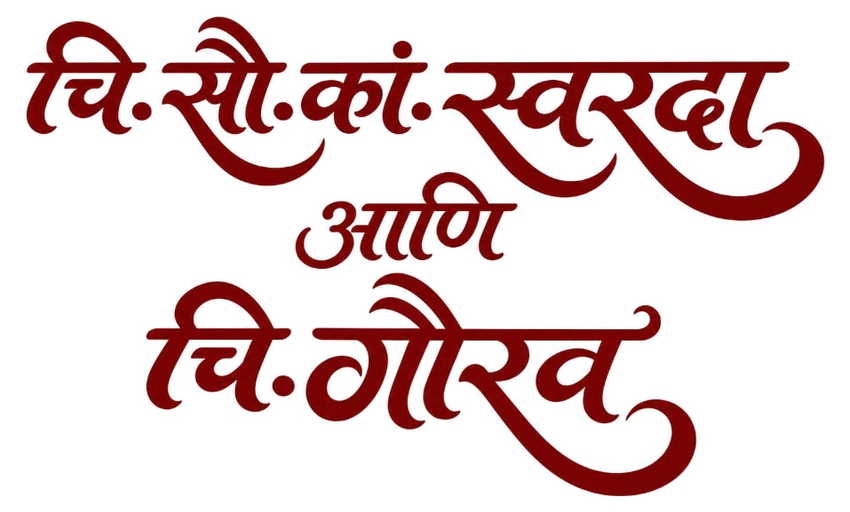
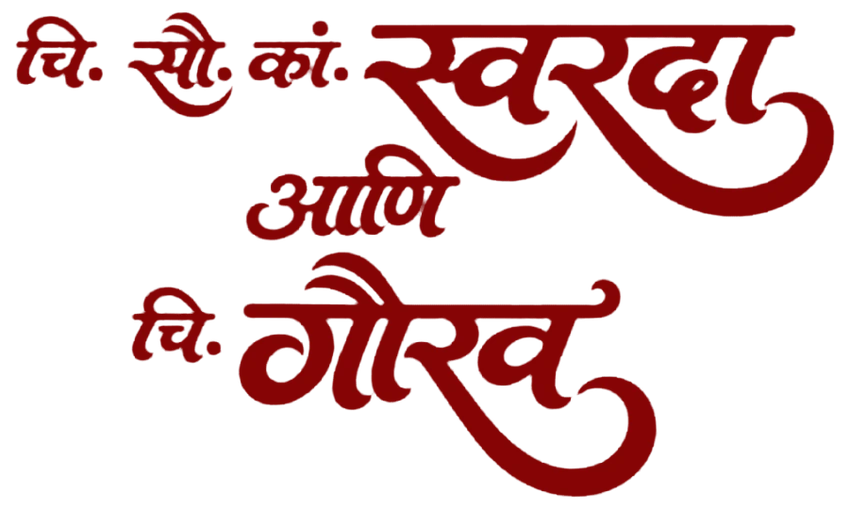
small updates

Changed region(s): [[0.0, 0.0295, 0.9788, 1.0], [0.8259, 0.4126, 0.9176, 0.442], [0.9176, 0.3831, 0.9482, 0.4126]]

diff --git a/css/style.css b/css/style.css
@@ -57,7 +57,7 @@ button { cursor: pointer; border: none; background: none; font-family: var(--ser
 
 .cover-names-wrap { display: flex; flex-direction: column; align-items: center; justify-content: center; margin-top: clamp(0.55rem, 1.8vh, 1.2rem); margin-bottom: clamp(0.45rem, 2.0cqw, 1.0rem); padding: 0.2rem 0; position: relative; width: 100%; }
 .cover-calligraphy-picture { display: flex; justify-content: center; align-items: center; width: 100%; }
-.cover-calligraphy-img { width: 100%; max-width: clamp(185px, 58cqw, 255px); max-height: min(21vh, 160px); height: auto; aspect-ratio: 850 / 554; object-fit: contain; display: block; margin: 0 auto; transform: none; filter: drop-shadow(0 2px 5px rgba(99, 22, 34, 0.16)); user-select: none; -webkit-user-select: none; pointer-events: none; }
+.cover-calligraphy-img { width: 100%; max-width: clamp(185px, 58cqw, 255px); max-height: min(21vh, 160px); height: auto; aspect-ratio: 850 / 525; object-fit: contain; display: block; margin: 0 auto; transform: none; filter: drop-shadow(0 2px 5px rgba(99, 22, 34, 0.16)); user-select: none; -webkit-user-select: none; pointer-events: none; }
 .sr-only { position: absolute; width: 1px; height: 1px; padding: 0; margin: -1px; overflow: hidden; clip: rect(0, 0, 0, 0); white-space: nowrap; border: 0; }
 
 .script-title-name { font-family: 'Italianno', cursive; font-size: clamp(3.4rem, 14.5cqw, 5.4rem); color: #16221E; font-weight: 400; line-height: 0.96; letter-spacing: 0.02em; margin: 0; text-align: center; text-shadow: 0 1px 2px rgba(255, 255, 255, 0.95); display: block; }
@@ -152,7 +152,7 @@ button { cursor: pointer; border: none; background: none; font-family: var(--ser
 .hero-names .names-bride { display: block; text-align: center; }
 .hero-calligraphy-wrap { width: 100%; display: flex; flex-direction: column; align-items: center; justify-content: center; margin: 0.35rem 0 0.55rem; position: relative; }
 .hero-calligraphy-picture { display: flex; justify-content: center; align-items: center; width: 100%; }
-.hero-calligraphy-img { width: 100%; max-width: clamp(190px, 60cqw, 255px); height: auto; aspect-ratio: 850 / 512; display: block; margin: 0 auto; filter: drop-shadow(0 2px 5px rgba(99, 22, 34, 0.16)); user-select: none; -webkit-user-select: none; pointer-events: none; }
+.hero-calligraphy-img { width: 100%; max-width: clamp(190px, 60cqw, 255px); height: auto; aspect-ratio: 850 / 509; display: block; margin: 0 auto; filter: drop-shadow(0 2px 5px rgba(99, 22, 34, 0.16)); user-select: none; -webkit-user-select: none; pointer-events: none; }
 
 .hero-line { max-width: 32ch; text-wrap: balance; font-style: italic; font-size: clamp(1.02rem, 4.0cqw, 1.28rem); color: #2F1E16; font-weight: 500; line-height: 1.45; margin: 0.35rem 0; text-shadow: 0 1px 1px rgba(255, 255, 255, 0.85); }
 .hero-line.devanagari { font-family: 'Noto Serif Devanagari', var(--deva); font-style: normal; font-size: clamp(1.20rem, 4.6cqw, 1.45rem); color: #381A1E; font-weight: 600; line-height: 1.7; max-width: 36ch; margin: 1rem 0; }
@@ -250,9 +250,9 @@ button { cursor: pointer; border: none; background: none; font-family: var(--ser
   .date-clean-text.devanagari { font-size: clamp(0.94rem, 3.6vw, 1.08rem) !important; letter-spacing: 0.03em !important; margin-left: 0 !important; font-weight: 700 !important; }
   .enter-ceremony-btn { bottom: clamp(1.8rem, 5.2vh, 2.6rem) !important; padding: 0.60rem 1.75rem 0.56rem !important; display: inline-flex !important; align-items: center !important; justify-content: center !important; text-align: center !important; line-height: 1 !important; font-size: clamp(0.96rem, 3.6vw, 1.08rem) !important; white-space: nowrap !important; letter-spacing: 0.02em !important; }
   .stage-landing { justify-content: center !important; padding: 0.25rem 0.8rem 1.4rem !important; }
-  .ganpati-icon { width: 60px !important; margin-bottom: 0.06rem !important; }
+  .ganpati-icon { width: clamp(92px, 25vw, 110px) !important; margin-bottom: 0.06rem !important; }
   .ganpati-title { height: 1.35em !important; font-size: clamp(0.92rem, 3.4vw, 1.05rem) !important; margin-bottom: 0.08rem !important; }
-  .lotus-divider { width: 100px !important; }
+  .lotus-divider { width: clamp(105px, 29vw, 125px) !important; }
   .shloka-box { height: auto !important; min-height: 2.5rem !important; margin: 0.08rem auto 0.15rem !important; }
   .shloka-text { height: 1.45em !important; font-size: clamp(0.82rem, 3.2vw, 0.94rem) !important; line-height: 1.5 !important; white-space: nowrap !important; }
   .couple-card { width: clamp(270px, 84vw, 360px) !important; max-width: 92% !important; max-height: clamp(330px, 53vh, 450px) !important; margin: 0.55rem auto 0 !important; transform: translateY(clamp(4px, 1.2vh, 8px)) !important; overflow: visible !important; }
@@ -260,8 +260,8 @@ button { cursor: pointer; border: none; background: none; font-family: var(--ser
   .scroll-cue-btn { bottom: 0.45rem !important; font-size: clamp(0.82rem, 3.2vw, 0.92rem) !important; white-space: nowrap !important; letter-spacing: 0.02em !important; z-index: 15 !important; text-shadow: 0 1px 3px rgba(255, 255, 255, 0.95), 0 0 10px rgba(255, 255, 255, 0.9) !important; }
   .invitation-reel-inner { padding-left: 0.65rem !important; padding-right: 0.65rem !important; }
   .crest-shree { font-size: clamp(1.22rem, 4.8vw, 1.45rem) !important; font-weight: 800 !important; letter-spacing: 0 !important; margin: 0.2rem 0 0.1rem !important; }
-  .invitation-ganpati { width: clamp(84px, 24vw, 110px) !important; }
-  .invitation-lotus { width: clamp(110px, 32vw, 140px) !important; }
+  .invitation-ganpati { width: clamp(102px, 28vw, 130px) !important; }
+  .invitation-lotus { width: clamp(120px, 35vw, 155px) !important; }
   .hero-eyebrow.devanagari { font-size: clamp(0.98rem, 4.1vw, 1.20rem) !important; font-weight: 700 !important; letter-spacing: -0.01em !important; line-height: 1.62 !important; width: 100% !important; max-width: 100% !important; }
   .hero-eyebrow.devanagari .eyebrow-line { display: block !important; white-space: nowrap !important; text-align: center !important; }
   .hero-calligraphy-wrap { margin: 0.25rem 0 0.45rem !important; }

diff --git a/index.html b/index.html
@@ -15,15 +15,13 @@
   <link rel="preconnect" href="https://fonts.googleapis.com">
   <link rel="preconnect" href="https://fonts.gstatic.com" crossorigin>
   <link rel="preconnect" href="https://ik.imagekit.io">
-  <link rel="preload" as="image" href="assets/couple-calligraphy.webp?v=11" type="image/webp" fetchpriority="high">
-  <link rel="preload" as="image" href="assets/couple-calligraphy-sec3.webp?v=11" type="image/webp">
+  <link rel="preload" as="image" href="assets/couple-calligraphy.webp?v=19" type="image/webp" fetchpriority="high">
   <link rel="preload" as="image" href="https://ik.imagekit.io/greenspire/invitation/main-bg.avif" fetchpriority="high">
   <link rel="preload" as="image" href="https://ik.imagekit.io/greenspire/invitation/ganpati-logo.avif">
-  <link rel="preload" as="image" href="assets/couple.webp?v=3" type="image/webp">
   <link
-    href="https://fonts.googleapis.com/css2?family=Cinzel:wght@400;600;700;800&family=Cormorant+Garamond:ital,wght@0,400;0,600;0,700;1,400&family=Great+Vibes&family=Italianno&family=Noto+Serif+Devanagari:wght@400;600;700;800;900&family=Tiro+Devanagari+Marathi:ital,wght@0,400;0,700;1,400&family=Yatra+One&display=block"
+    href="https://fonts.googleapis.com/css2?family=Cinzel:wght@400;600;700;800&family=Cormorant+Garamond:ital,wght@0,400;0,600;0,700;1,400&family=Great+Vibes&family=Italianno&family=Noto+Serif+Devanagari:wght@400;600;700;800;900&family=Tiro+Devanagari+Marathi:ital,wght@0,400;0,700;1,400&family=Yatra+One&display=swap"
     rel="stylesheet">
-  <link rel="stylesheet" href="css/style.css?v=175">
+  <link rel="stylesheet" href="css/style.css?v=180">
 
   <style>
     .stage-cover:not(.is-revealed) .cover-content,
@@ -52,9 +50,8 @@
 
             <div class="cover-names-wrap" role="heading" aria-level="1">
               <picture class="cover-calligraphy-picture">
-                <source srcset="assets/couple-calligraphy.webp?v=11" type="image/webp">
-                <img src="assets/couple-calligraphy.png?v=11" alt="चि. सौ. कां. स्वरदा आणि चि. गौरव"
-                  class="cover-calligraphy-img" width="850" height="554" fetchpriority="high" decoding="async">
+                <source srcset="assets/couple-calligraphy.webp?v=19" type="image/webp">
+                <img src="assets/couple-calligraphy.png?v=19" alt="चि. सौ. कां. स्वरदा आणि चि. गौरव" class="cover-calligraphy-img" width="850" height="525" fetchpriority="high" decoding="async">
               </picture>
               <span class="sr-only">चि. सौ. कां. स्वरदा आणि चि. गौरव</span>
             </div>
@@ -156,9 +153,8 @@
               </p>
               <div class="hero-names hero-calligraphy-wrap" role="heading" aria-level="2">
                 <picture class="hero-calligraphy-picture">
-                  <source srcset="assets/couple-calligraphy-sec3.webp?v=11" type="image/webp">
-                  <img src="assets/couple-calligraphy-sec3.png?v=11" alt="चि. सौ. कां. स्वरदा आणि चि. गौरव"
-                    class="hero-calligraphy-img" width="850" height="512" loading="lazy" decoding="async">
+                  <source srcset="assets/couple-calligraphy-sec3.webp?v=20" type="image/webp">
+                  <img src="assets/couple-calligraphy-sec3.png?v=20" alt="चि. सौ. कां. स्वरदा आणि चि. गौरव" class="hero-calligraphy-img" width="850" height="509" loading="lazy" decoding="async">
                 </picture>
                 <span class="sr-only">चि. सौ. कां. स्वरदा आणि चि. गौरव</span>
               </div>
@@ -316,7 +312,7 @@
   </button>
 
   <script src="js/config.js"></script>
-  <script src="js/app.js?v=135"></script>
+  <script src="js/app.js?v=140"></script>
 </body>
 
 </html>

diff --git a/js/app.js b/js/app.js
@@ -36,9 +36,7 @@
 
   var weddingMusic = document.getElementById('weddingMusic');
 
-  if (weddingMusic && weddingMusic.load) {
-    try { weddingMusic.load(); } catch (e) {}
-  }
+  // Music will be initialized on first user gesture to preserve initial loading speed
 
   var coverDateSection = document.getElementById('coverDateSection');
   var isCoverRevealed = false;
@@ -67,8 +65,8 @@
         }
       }
 
-      setTimeout(revealCoverDate, 550);
-    }, 120);
+      setTimeout(revealCoverDate, 280);
+    }, 30);
   }
 
   function waitForCoverAssetsAndFonts() {
@@ -97,17 +95,18 @@
       if (bgImg.complete) resolve();
     }));
 
-    promises.push(new Promise(function (resolve) {
+        promises.push(new Promise(function (resolve) {
       var calImg = new Image();
+      if (calImg.complete) { resolve(); return; }
       calImg.onload = resolve;
       calImg.onerror = resolve;
-      calImg.src = 'assets/couple-calligraphy.webp?v=11';
-      if (calImg.complete) resolve();
+      calImg.src = 'assets/couple-calligraphy.webp?v=19';
+      if (calImg.complete) { resolve(); }
     }));
 
     Promise.all(promises).then(revealCoverSection).catch(revealCoverSection);
 
-    setTimeout(revealCoverSection, 2500);
+    setTimeout(revealCoverSection, 400);
   }
 
   waitForCoverAssetsAndFonts();
